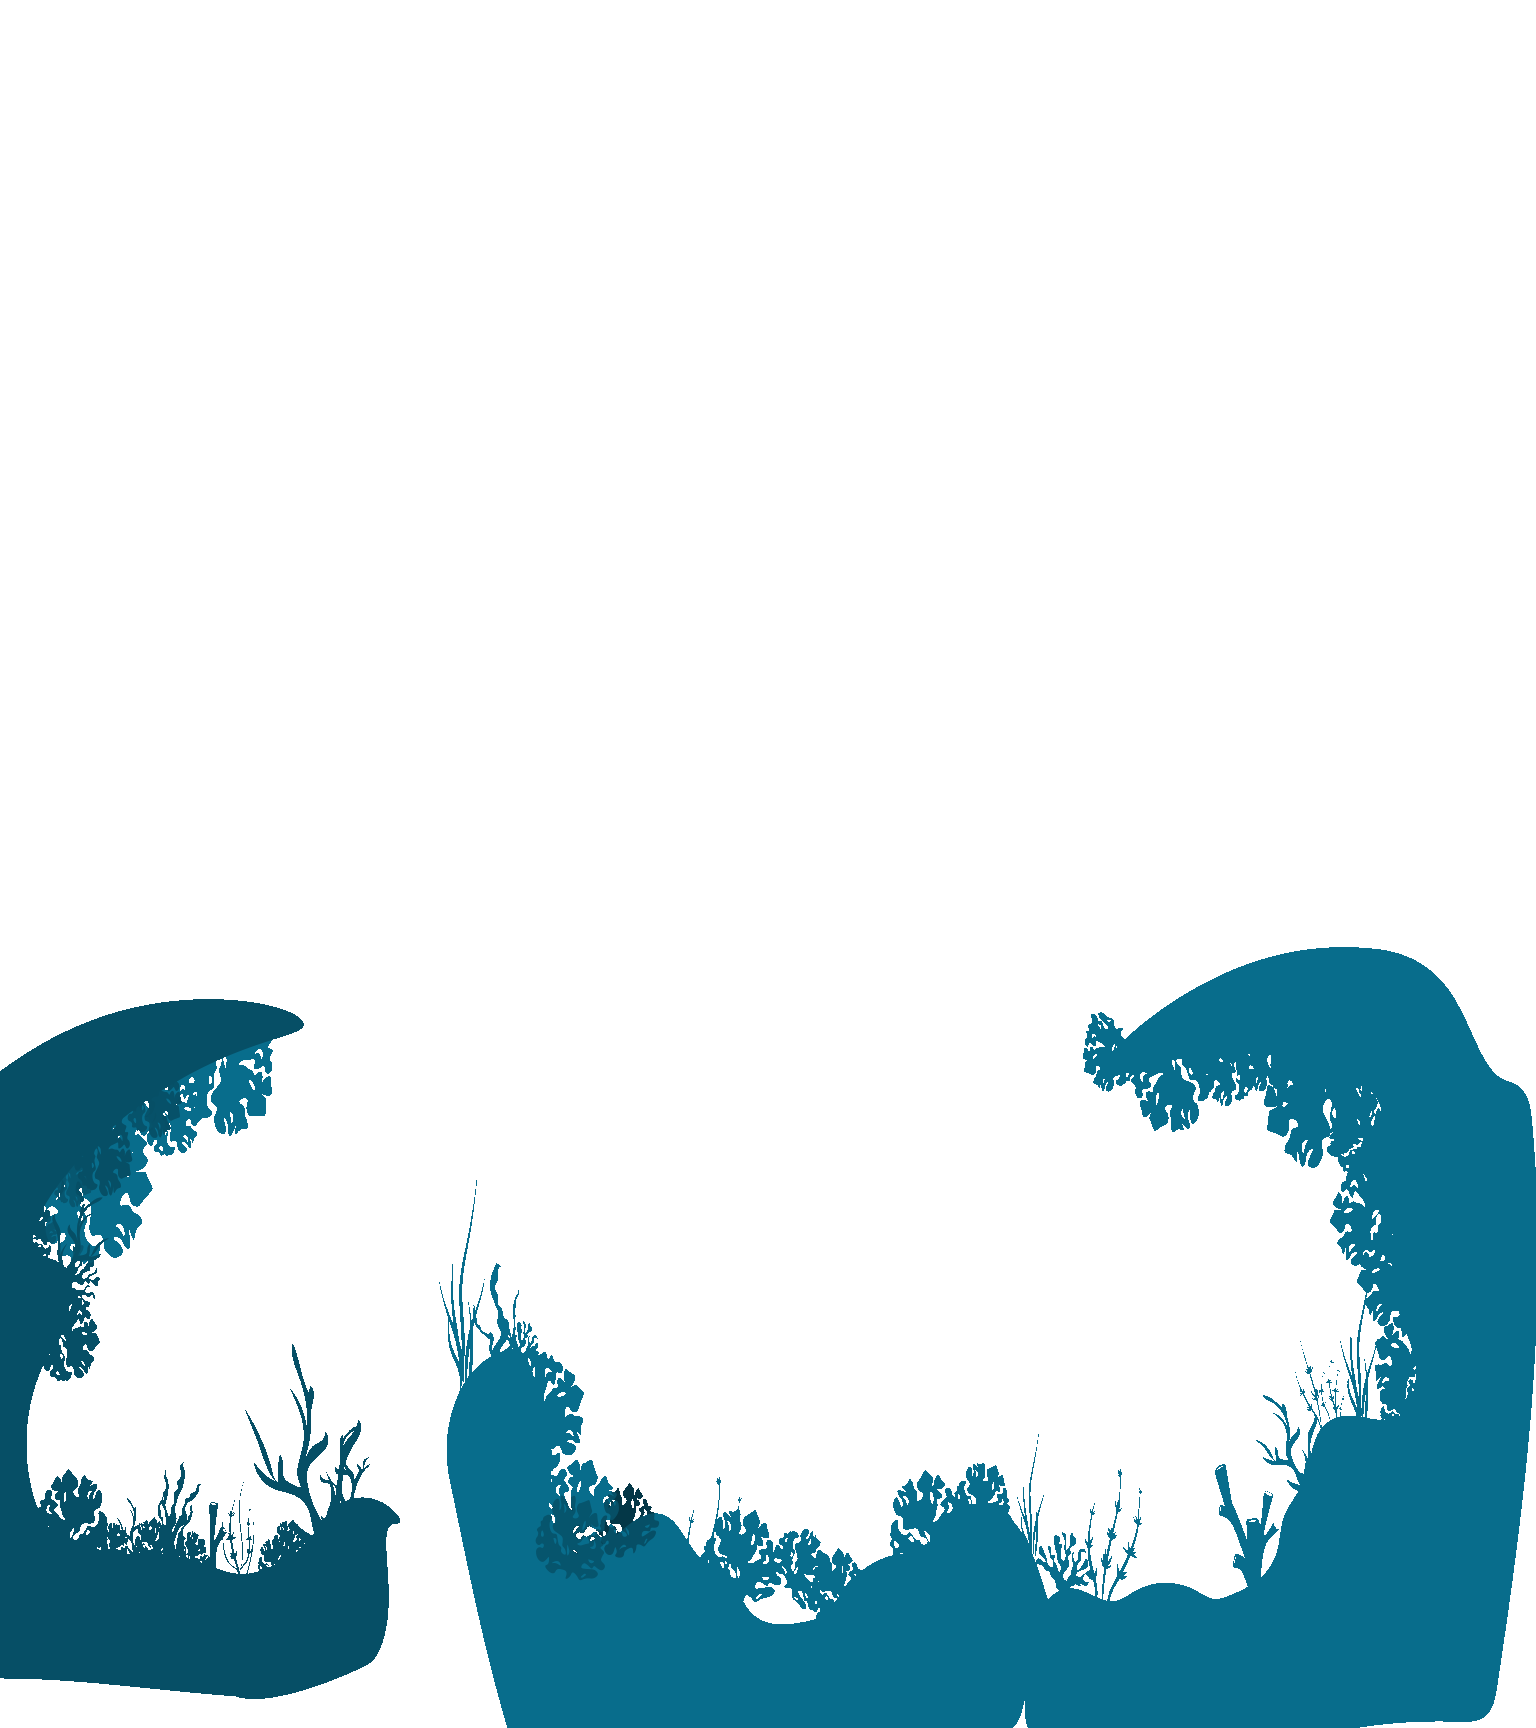
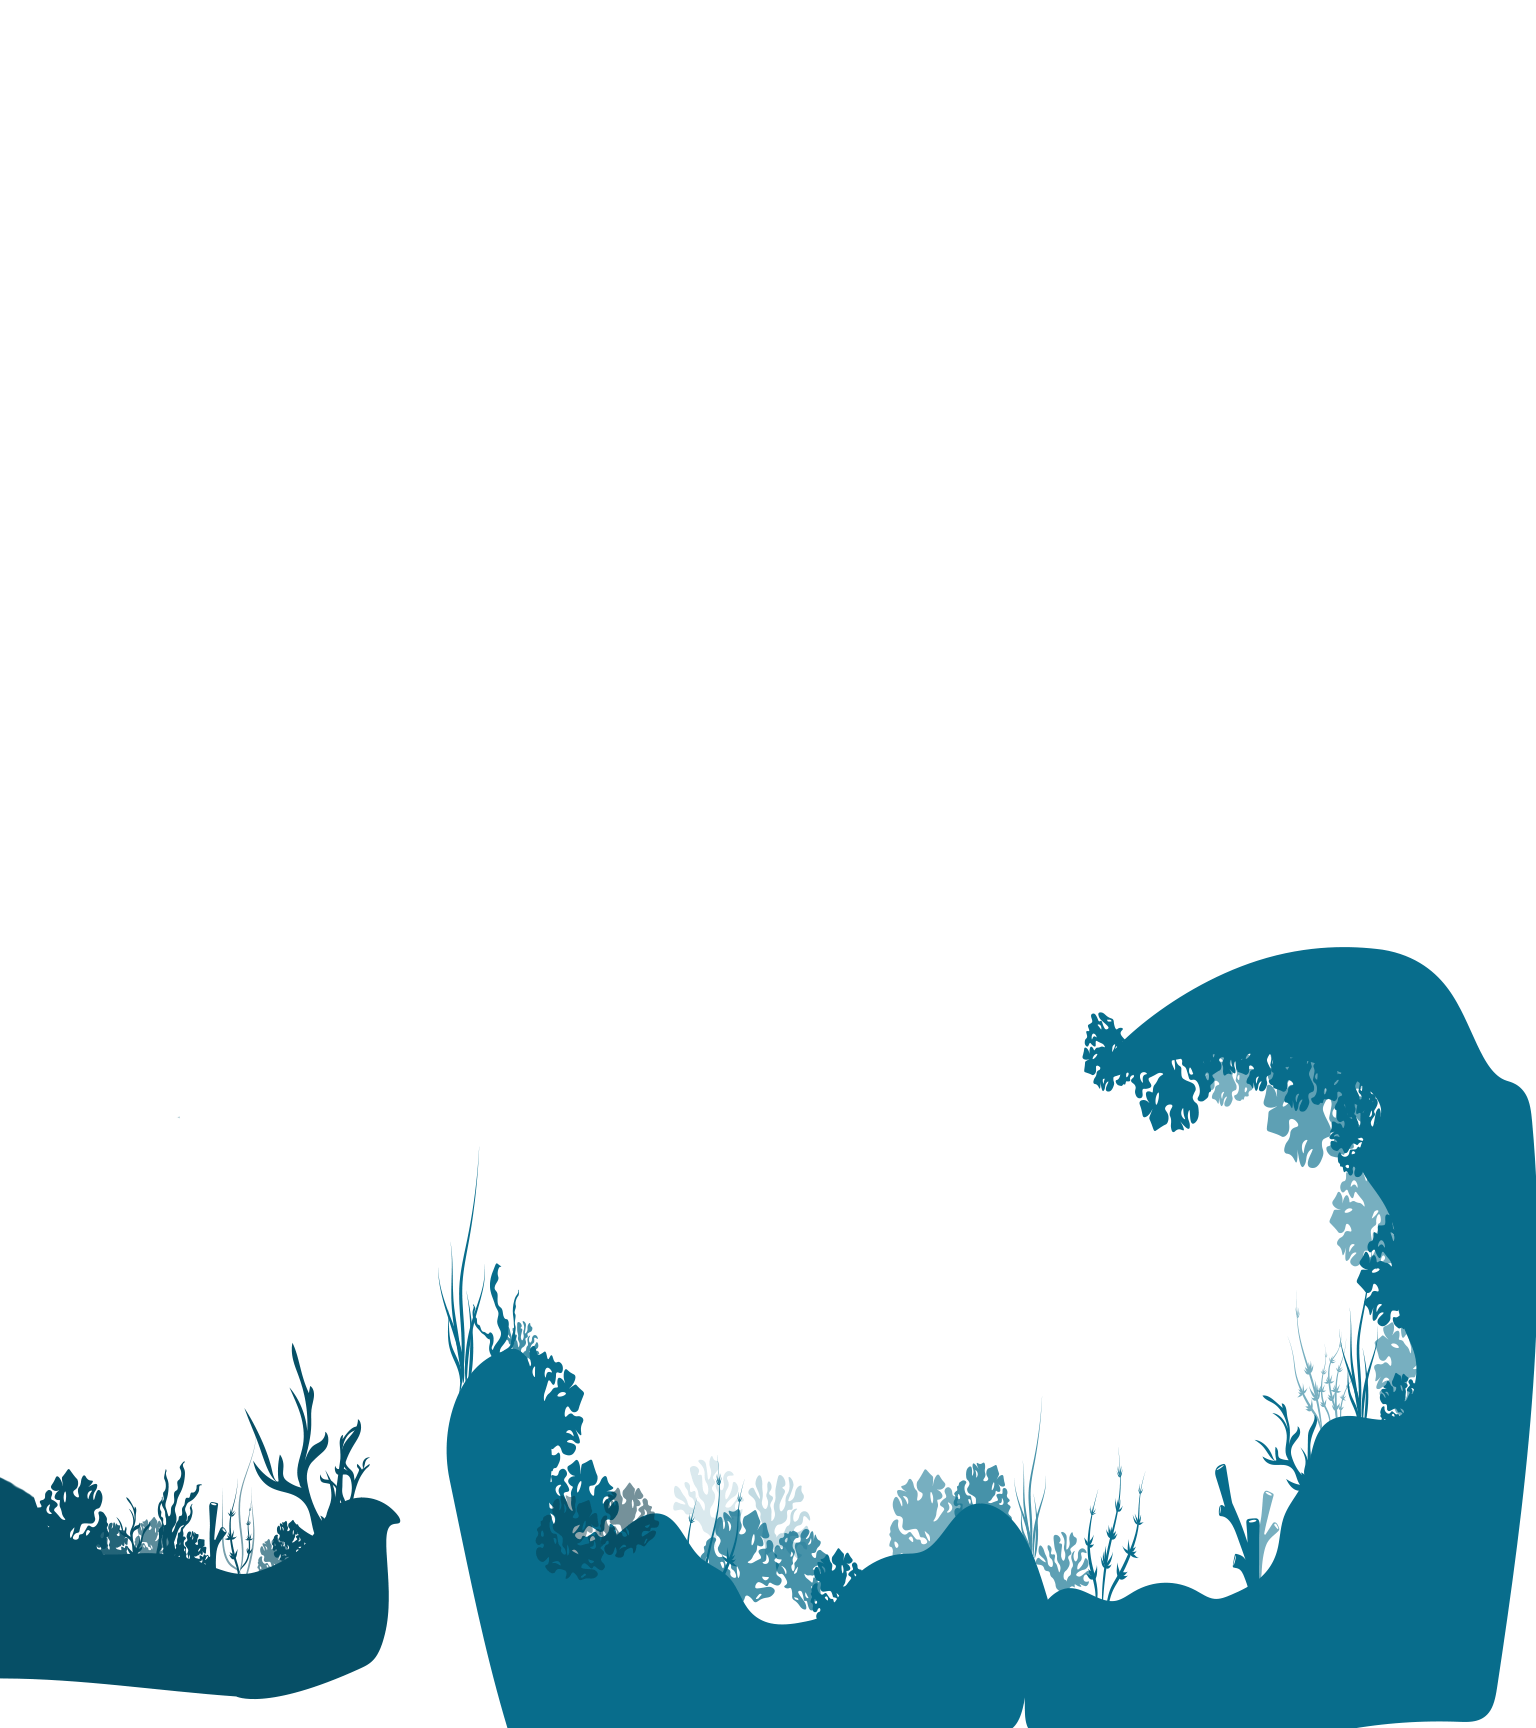
Added wrecks secret entrance

diff --git a/src/pages/exploration/Wrecks.svelte b/src/pages/exploration/Wrecks.svelte
@@ -11,6 +11,7 @@
   import wrecks_2 from "$assets/wrecks/wrecks_2.png";
   import wrecks_3 from "$assets/wrecks/wrecks_3.png";
   import wrecks_kelp from "$assets/wrecks/wrecks_kelp.png";
+  import wrecks_secret from "$assets/wrecks/wrecks_secret.png";
 
   const gridWidth = $windowWidth * 1.5;
   const gridHeight = $windowHeight * 3;
@@ -49,11 +50,11 @@
   class="bg-blue-800"
 >
   <TurbulentImg src={underwater} class="opacity-35 z-[1]" />
-  <BgImg src={wrecks_3} class="w-[111%] bottom-0 z-[7]" />
+  <BgImg src={wrecks_3} class="w-[122%] bottom-0 z-[7]" />
   <BgImg
     src={wrecks_2}
     style="transform: translateX({$gridOffset.x / 10}px)"
-    class="w-[111%] bottom-0 z-[9]"
+    class="w-[115%] bottom-0 z-[9]"
   />
   <Submarine class="z-10" />
   <BgImg
@@ -62,9 +63,14 @@
     class="opacity-80 z-[11]"
   />
   <BgImg
-    src={wrecks_1}
+    src={wrecks_secret}
     style="transform: translateX({$gridOffset.x / 5}px)"
     class="w-[111%] bottom-0 z-[12]"
+  />
+  <BgImg
+    src={wrecks_1}
+    style="transform: translateX({$gridOffset.x / 5}px)"
+    class="w-[111%] bottom-0 z-[13]"
   />
   {#snippet areas()}
     <Area
